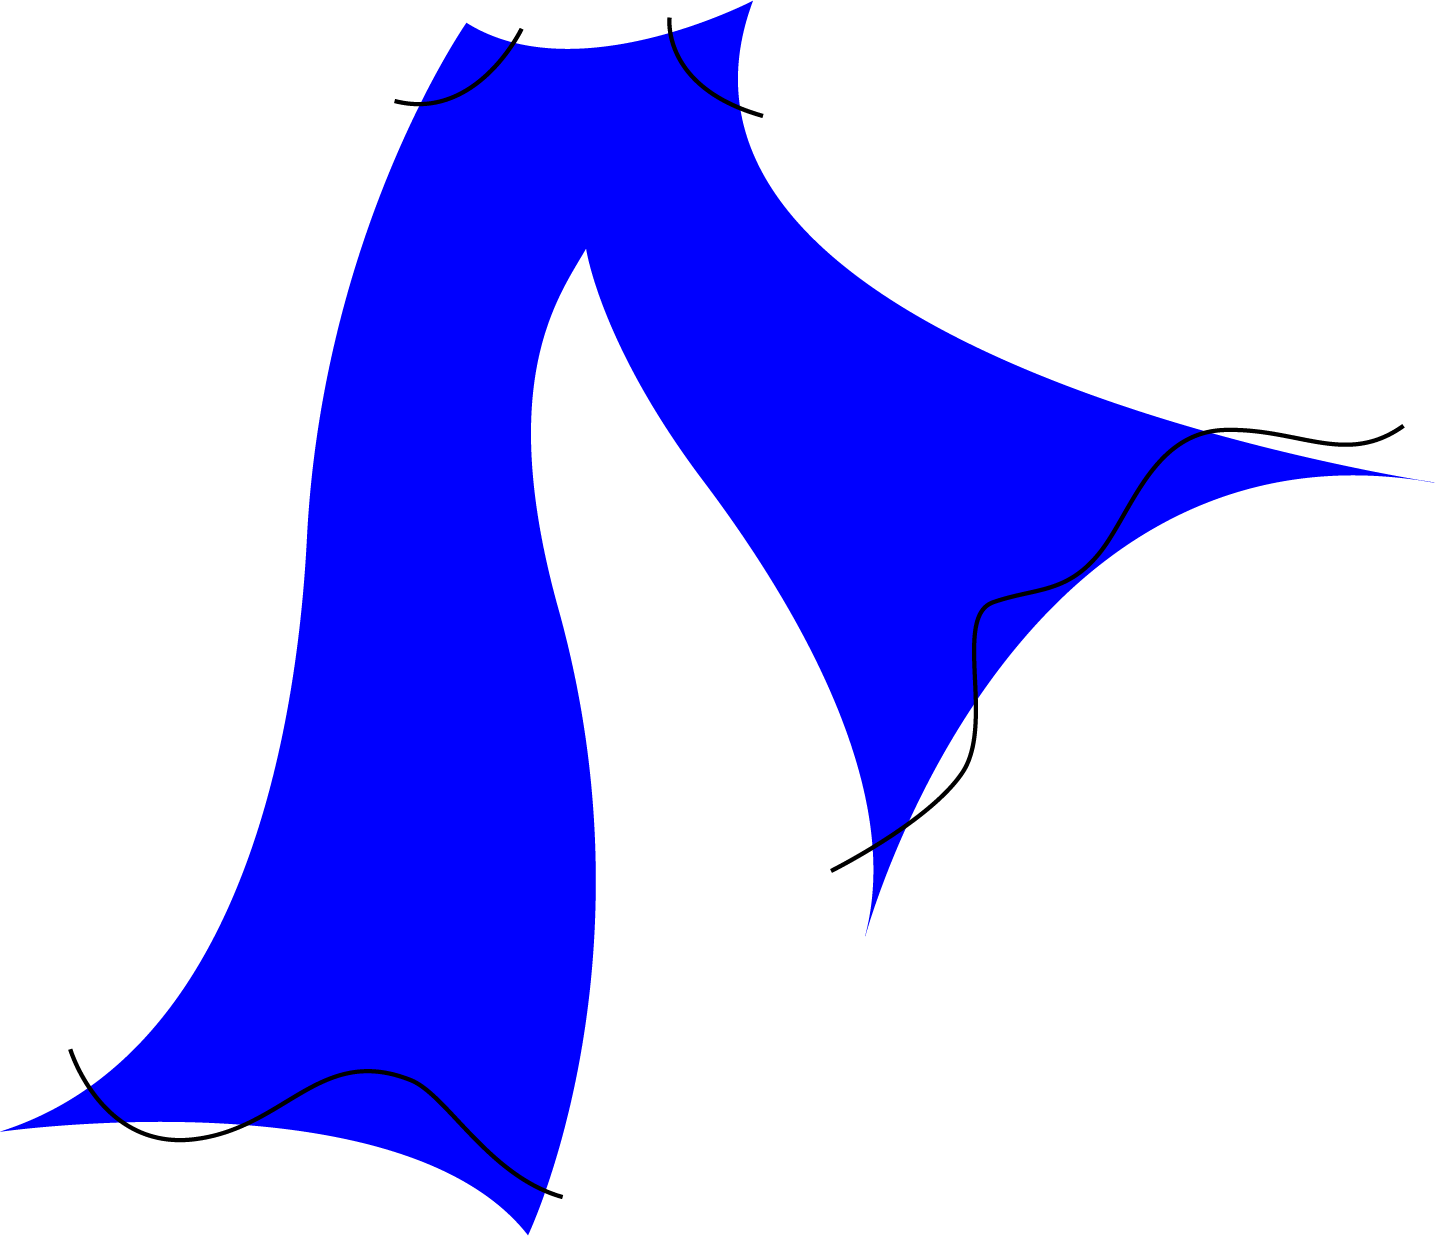
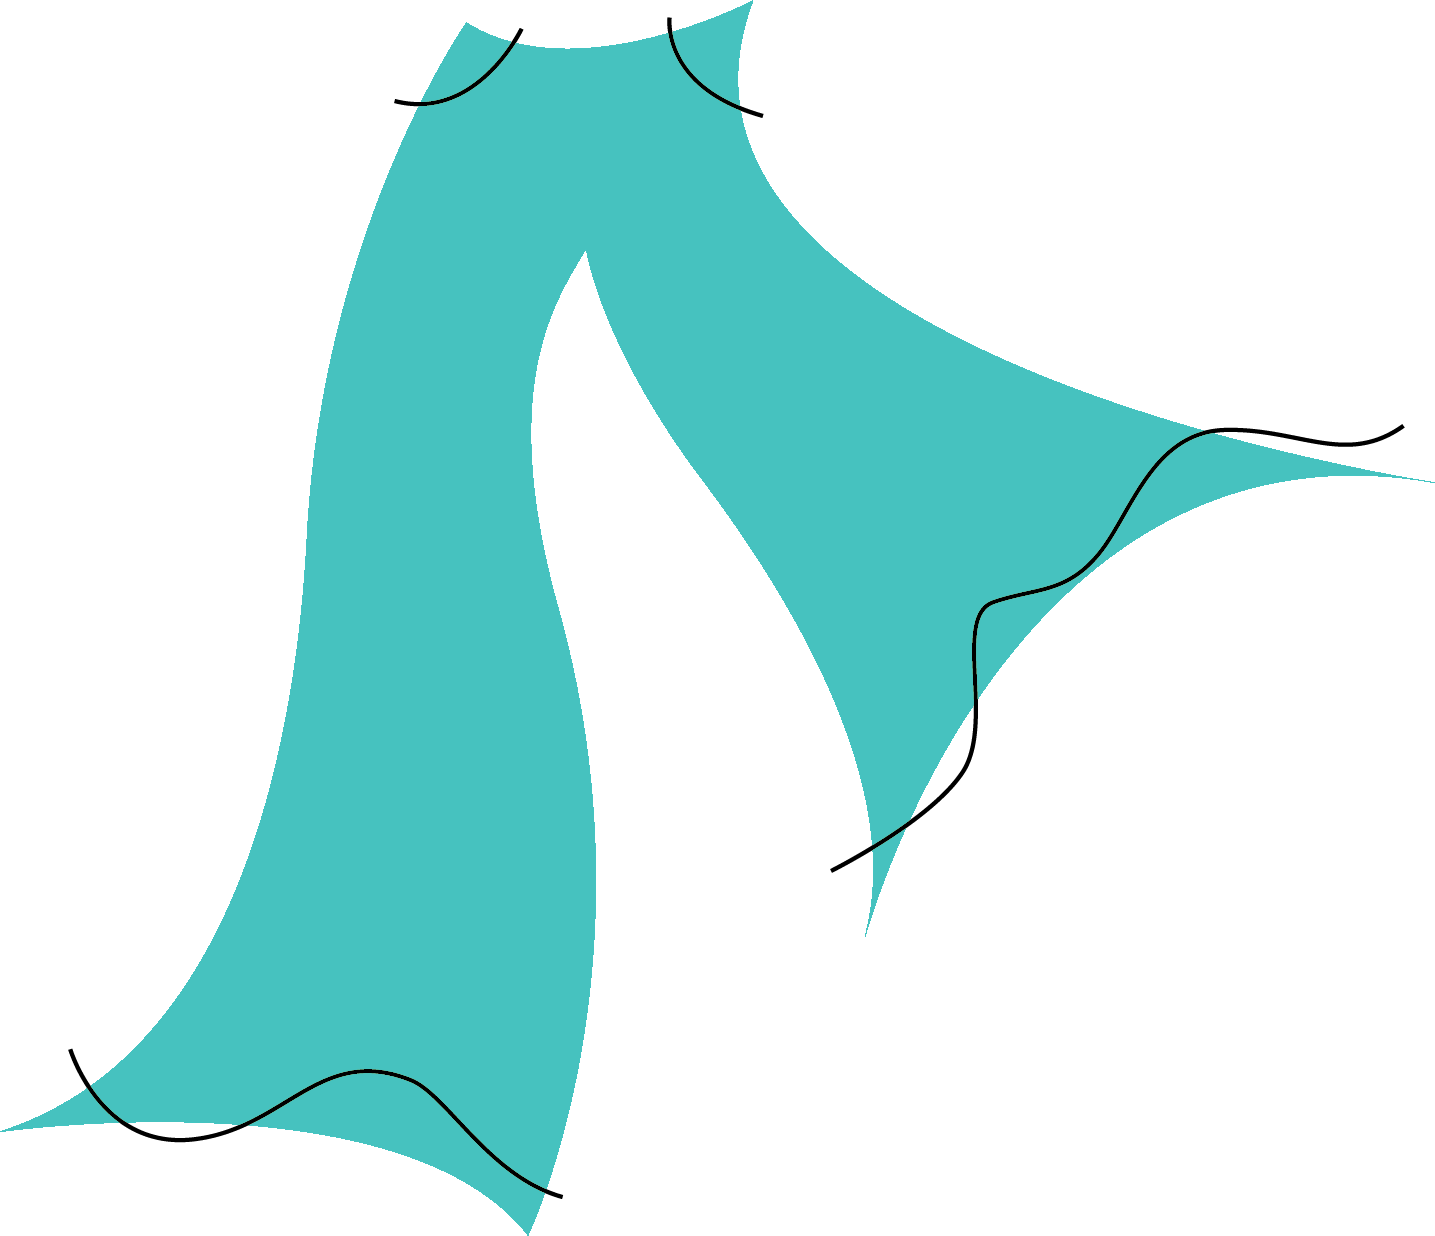
Add files via upload

Changed region(s): [[0.0, 0.0, 0.9505, 1.0]]

diff --git a/pants/paragraph editing.html b/pants/paragraph editing.html
@@ -1,0 +1,37 @@
+<!doctype html>
+<html>
+	<head>
+		<link rel='stylesheet' href='colourful.css'>
+		<script src="https://ajax.googleapis.com/ajax/libs/jquery/3.4.1/jquery.min.js"></script>
+		<script type="text/javascript" src="java.js"></script>
+	</head>
+	<body>
+	<div class="wrapper">
+	<h1>Thoughts on the web</h1>
+	<h2>Reading 1: Turing Complete User</h2>
+	<h3>1. What do you think is Lialina's opinion of the word "user”?</h3>
+		<p>Lialina stresses the importance of separating the term, user, from people, as it diminishes the value, and skill set the  developers work hard to utilize. Their role as a UXD has progressed technology to appear as invisible to the people interacting with the software. All users thoughts need to revolve around are their feelings and getting to their end goal, not having to connect the coding and wires in the hidden background. Lialina's opinion works to be an advocate to protect and preserve the existence of the user and their rights being a creator in this industry.</p>
+	<h3>2. What is Lialina's ideal internet user?</h3>
+		<p>Provide some of the qualities that she outlines. Lialina's uses the terms, "Universal User" "General Purpose User" or the "Turing Complete User" to describe her idea of an ideal internet user. As a user, one should be able to complete their desired task, regardless if the program was designed for that specific outcome. This ideal user could think outside how the program was intended to work and challenge themselves to create their own adaptions with technology.</p>
+	<h3>3. From your own experiences interacting on the web—what is an example where there are "gaps that can be filled by users"?</h3>
+		<p>From my own experience interacting with the web there are lots of "gaps" to be filled by the user. Examples could be uploading a video on youtube, all content shared on social media platforms, forums designed to hear opinions of the people, or responding to a ad for purchase. The web is designed for users to interact with each other and add their own invisible coding into the grid. </p>
+	<h2>Reading 2: The Poetry of Tools</h2>
+	<h3>1. In the opening paragraph of her post, Seu asks you, the reader to join her to 'defamiliarize our tools.' What do you think she means by that? And how do you think that action relates to her use of the word poetry?</h3>
+		<p>In today's digital age, we often treat technology as a convenient outlet that satisfies our every need. In order to make great use of technology,  Seu tells us to 'de-familiarize' its use, as a way to better appreciate its capabilities and recognize the hard team work that went into its creations. Viewers have no need to understand the weight and problem solving that went into our seamless use. Thus, as we de-familiarize our routines and habits we will regain the respect and take a deeper look at its benefits. This relates to poetry, which begs us to question its meaning while seeking clarity - similarly, technology can offer us much more once we learn to find it. </p>
+	<h3>2. Seu outlines 6 categories within her taxonomy of tool poetics. Choose at least one of these categories and define it in your own words. Now find a website or online interface* not mentioned in her post that you feel operates within the chosen definition. Explain why.</h3>
+		<p>Seu highlights a unique way of interpreting, interacting and analyzes web pages through the taxonomy tool, 'removing function from form'. This approach to a poetic, harmonious, union with web technology allows viewers to dissociate the function of a tool designed to have specific responses, to benefit a purpose of reimagining and associating these assets as an aesthetic experience to enjoy. Repurposing visual functions that have solely been designed to  enhance ones' desired outcome, to useless data, is extremely impactful and combats the intensity and 'restrictions' that have been placed on these tools to create a new space of curiosity, excitement and laughter. This online interface, <a href='http://endless.horse/'>endless.horse</a>, does a really marvellous job at repurposing language we have come to understand by creating the shape of a horse that extends, yet never ends, no matter how long you spend scrolling down. It is simplistic, timeless and very light and pleasant to interact with.</p>
+		<p>Another category I'd like to highlight is 'Performing Data'. Humans have evolved with passing down the comprehension of language and data and how we can utilize its power to express new information through unique scopes and perspectives of our own. Data allows us to build on and create sequential comprehension. When merged into the web, we can repurpose this understanding to benefit our approach at sharing this information through reordering of displayed materials of data. A nice website that hits this poetic category well, would be, <a href='http://www.koalastothemax.com/'>koalastothemax.com</a>,  as it allows the user to interact and reorder the set data how they please. The user's interaction becomes the importance to the success of the web page. In order to decode and enjoy the websites information, it is completely up to the users choice to dictate its performance.</p>
+	<h2>Reading 3: My website is a shifting house next to a river of knowledge</h2>
+	<h3>1. Why does Laurel Schwulst advocate for individual websites over social media? Do you agree with her? Please explain your answer.</h3>
+		<p>Large corporations like google, facebook, instagram and snapchat dominate the social sphere with faceless unpersonalized web fronts. This is extremely problematic as these outputs are placed to gain strength as capitalist, manipulative and profitable forefront. This disconnects the users with their personal freedom to express and explore, constraining and containing their innovative potential. Schwulst mentions, "we need individuals rather than corporations to guide the web’s future", ultimately we are just one screen interacting with another and we need to lowers the standards and expectations of what one can and should be added to the world wide web for desired responses. We as artists, creators, imaginators and designers need to take it upon us, as our duty, to bring the internet back to a playscape to explore and grow harmoniously. Individual websites allow complete control and autonomy over ones innovative and conceptualized direction. Laurel Schwulst advocacy for individual creators to take back the web is empowering and extremely prevalent to where the web lays today. Within Schwulst's essay, she expressed the variety of ways a web page can be interpreted and manifested by individuals who acts as both the author and the architect. These large corporations do a strong job at bridging the technical difficulties to connect and share, but we as creatives have to be weary and not allow our imagination to be shaped by these cookie cutter corporations.</p>
+	<h3>2. In this article, Schwulst outlines several metaphors defining the behaviour of websites. Write a paragraph describing your own metaphor for a website. Put that text into its own simple website designed to extend that comparison.</h3>	
+		<h3> Pants as a metaphor </h3>
+		<p> Your favourite jeans fit with perfect form, are extremely comfortable and make you feel confident and sexy in your skin. Through lots of wear they can start to lose their touch and will break down, a natural cycle of life. As well, over time, bodies change, grow, while simultaneously identities shift and taste and judgement alters. In that moment of  purchase, you knew it was a wise transaction of money for pleasure, even though we are aware of our constant state of change and growth. This can easily be related and applied to the existence of a web page. When caught in the <span class='blue'> moment of inspiration and creation </span>you develop a site and release it to be free in the world wide web for your personal satisfaction. As your skills develop and your creativity expands far beyond, you can fathom new and powerful spaces to share. That previous site created can be used as a marking point to highlight your growth and development. Just like when it's time to put those jeans in the back of the closet, you'll be grateful for all the support and <span class='blue'>killer lewks </span>it was able to provide. 
+		</p>
+		</div>
+
+		<img id='green-pants' src="green-pants.png" data-src="green-pants.png" data-hover="blue-pants.png" alt="" class="image-container">
+	</body>
+</html>
+
+

diff --git a/pants/colourful.css b/pants/colourful.css
@@ -1,19 +1,39 @@
+.wrapper {
+	max-width: 800px;
+}
+
+h1 {
+	left:77px;
+	color:rgb(56, 198, 214);
+	font-size:68px;
+	font-family: sans-serif;
+
+}
+
+h2 {
+   color:rgb(56, 198, 214);
+   font-size:40px;
+   font-family: sans-serif;
+   width: 900px;
+
+}
+
 h3{
 font-family: Helvetica, Arial, sans-serif;
 width: 900px;
-font-size: 50px;
-color: rgb(252, 34, 5);
+font-size: 30px;
+color: rgb(143, 191, 48);
 
 }
 	p{
 	width: 900px;
 	font-family: Helvetica, Arial, sans-serif;
-	font-size: 25px;
+	font-size: 20px;
 	line-height: 29px;
 	font-style:bold;
 	font-weight: bold;
-	text-transform: lowercase;
-	text-align: justify;
+	text-transform: ;
+	text-align: ;
 }
 
 .bold {
@@ -21,17 +41,21 @@ color: rgb(252, 34, 5);
 }
 
 .blue {
-	color:blue;
+	color:rgb(56, 198, 214);
 }
 
-#red-pants {
+#green-pants {
 	position:absolute;
 	height:600px;
 	width:600px;
-	top:150px;
+	top:3450px;
 	left:840px
 }
 
 body{
-	background: rgb(149, 252, 5);
+	background: rgb(68, 68, 227);
+}
+
+a{
+	color:rgb(56, 198, 214);
 }
